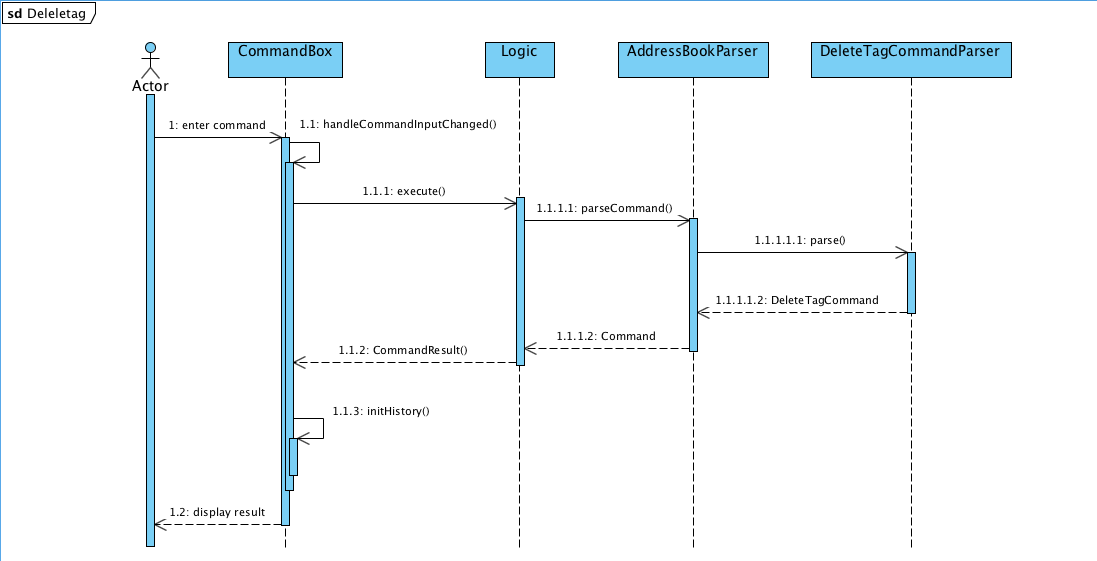
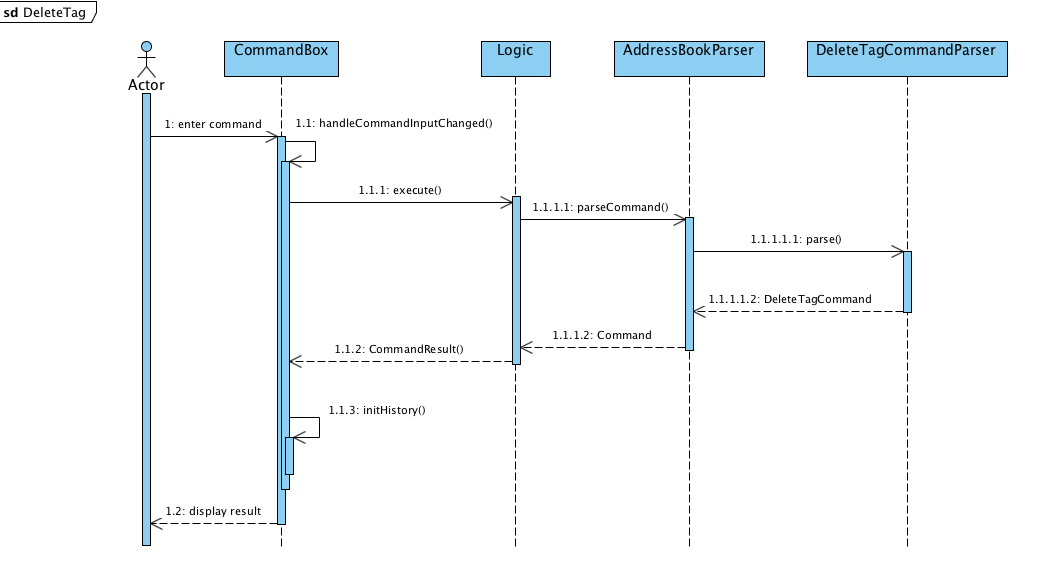
Fix broken links and update info in user and dev guide

diff --git a/docs/team/gabriellhs.html b/docs/team/gabriellhs.html
@@ -436,7 +436,7 @@ body.book #toc,body.book #preamble,body.book h1.sect0,body.book .sect1>h2{page-b
 <li><a href="#_enhancement_added_delete_tag">Enhancement Added: Delete Tag</a></li>
 <li><a href="#_enhancement_added_autocomplete">Enhancement Added: Autocomplete</a></li>
 <li><a href="#_enhancement_added_extended_autocomplete">Enhancement Added: Extended Autocomplete</a></li>
-<li><a href="#_enhancement_added_multiple_filter">Enhancement Added: Multiple Filter</a></li>
+<li><a href="#_enhancement_added_multiple_filter_for_contacts">Enhancement Added: Multiple Filter for Contacts</a></li>
 <li><a href="#_enhancement_added_list_tasks">Enhancement Added: List Tasks</a></li>
 <li><a href="#_enhancement_added_delete_tasks">Enhancement Added: Delete Tasks</a></li>
 <li><a href="#_other_contributions">Other contributions</a></li>
@@ -467,7 +467,7 @@ body.book #toc,body.book #preamble,body.book h1.sect0,body.book .sect1>h2{page-b
 <p><mark>Start of Extract [from: User Guide]</mark></p>
 </div>
 <div class="paragraph">
-<p>Need to reorganize your social groups? <code>deletetag</code> enables you to delete
+<p><a id="deletetag-command"></a> Need to reorganize your social groups? <code>deletetag</code> enables you to delete
 tags from all your contacts in <code>Contact Plus</code> !<br>
 Command Format: <code>deletetag tag_name</code><br>
 Quick demo: <a href="#how-to-use-deletetag-command">here</a></p>
@@ -554,15 +554,15 @@ he/she could remove the tag <code>CS2101 groupmate</code> from all contacts in
 <p><mark>Start of Extract [from: Developer Guide]</mark></p>
 </div>
 <div class="paragraph">
-<p>This mechanism is modelled by the <code>DeleteTaskCommand</code> class. An instance of
-<code>DeleteTaskCommand</code> is instantiated by the <code>AddressBookParser</code> class when the
+<p>This mechanism is modelled by the <code>DeleteTagCommand</code> class. An instance of
+<code>DeleteTagCommand</code> is instantiated by the <code>AddressBookParser</code> class when the
 user attempts to delete tasks. The following sequence diagram shows the process from the
-moment the user enters the <code>deletetask</code> command until the remaining tasks
+moment the user enters the <code>deletetag</code> command until the remaining tags
 are displayed in the interface of <code>Contact Plus</code>.</p>
 </div>
 <div class="imageblock">
 <div class="content">
-<img src="../images/DeleteTaskCommand-sequence-diagram.png" alt="DeleteTaskCommand sequence diagram" width="800">
+<img src="../images/DeleteTagCommand-sequence-diagram.png" alt="DeleteTagCommand sequence diagram" width="800">
 </div>
 </div>
 </div>
@@ -571,15 +571,7 @@ are displayed in the interface of <code>Contact Plus</code>.</p>
 <div class="ulist">
 <ul>
 <li>
-<p>The <code>taskDisplayed</code> variable in <code>CommandBox</code> must be set to the instance of the <code>BrowserPanel</code>
-that contains the sticky where the tasks are to be displayed.</p>
-</li>
-<li>
-<p>The <code>getFilteredTaskList()</code> method in <code>Logic</code> class must return a list of <code>ReadOnlyTasks</code> containing
-the tasks in the address book.</p>
-</li>
-<li>
-<p>The <code>deleteTask()</code> method in model must be able to accept a <code>ReadOnlyTask</code> as input and
+<p>The <code>deleteTag()</code> method in model must be able to accept a <code>Tag</code> as input and
 delete it from the address book.</p>
 </li>
 </ul>
@@ -588,21 +580,19 @@ delete it from the address book.</p>
 <div class="sect3">
 <h4 id="_design_considerations">Design Considerations</h4>
 <div class="paragraph">
-<p><strong>Aspect:</strong> Implementation of DeleteTaskCommand<br></p>
+<p><strong>Aspect:</strong> Implementation of <code>deletetag</code> command.<br></p>
 </div>
 <div class="paragraph">
-<p><strong>Alternative 1 (current choice):</strong> Delete tasks from the address book every time the user executes the command to
-delete task.<br>
-<strong>Pros:</strong> Don&#8217;t have to keep track of which tasks are no longer valid.<br>
-<strong>Cons:</strong> Causes overhead if the user repeatedly executes a command to delete tasks.</p>
+<p><strong>Alternative 1 (current choice):</strong> Delete the specified tag from all contacts in the address book.<br>
+<strong>Pros:</strong> Easy to implement.<br>
+<strong>Cons:</strong> If the user wishes to only remove that tag from one particular person. He has to re-add the tag
+to every person who had that tag previously (except the one from which he wanted to remove the tag).</p>
 </div>
 <div class="paragraph">
-<p><strong>Alternative 2:</strong> Use lazy deletion (i.e. use a boolean array to mark which tasks are no longer valid) without
- automatically displaying the remaining tasks. Only delete tasks when
-  the user chooses to list tasks.<br>
-<strong>Pros:</strong> Less overhead as deletion only has to be done when user chooses to list tasks.<br>
-<strong>Cons:</strong> Difficult to implement and causes a lot of technical issues such as updating the
-list of tasks when the user closes the address book after deletion.</p>
+<p><strong>Alternative 2:</strong> Enable the user to choose several contacts from which he/she wishes to delete the tag.<br>
+<strong>Pros:</strong> User has more control over which users to remove the tag from. Hence, this implementation removes
+ the problem from alternative 1.<br>
+<strong>Cons:</strong> Implementation is more complex as contacts have to validated before handling the tag names.</p>
 </div>
 <div class="paragraph">
 <p><mark>End of Extract</mark></p>
@@ -619,7 +609,7 @@ list of tasks when the user closes the address book after deletion.</p>
 <p><mark>Start of Extract [from: User Guide]</mark></p>
 </div>
 <div class="paragraph">
-<p>Lazy to memorize command names? Press a shorcut key to automatically complete the text that you enter into the command box.<br>
+<p><a id="autocomplete-feature"></a> Lazy to memorize command names? Press a shortcut key to automatically complete the text that you enter into the command box.<br>
 Format: [Some text]<br>
 Quick demo:  <a href="#how-to-use-autocomplete">here</a></p>
 </div>
@@ -812,7 +802,7 @@ another method should be implemented in the <code>AutoCompleteUtil</code> class.
 <div class="sect3">
 <h4 id="_design_considerations_2">Design Considerations</h4>
 <div class="paragraph">
-<p><strong>Aspect:</strong> Implementation of <code>autocomplete</code><br></p>
+<p><strong>Aspect:</strong> Implementation of <code>autocomplete</code>.<br></p>
 </div>
 <div class="paragraph">
 <p><strong>Alternative 1 (current choice):</strong> Add a list of names of available commands to <code>Command</code> class.<br>
@@ -845,7 +835,7 @@ another method should be implemented in the <code>AutoCompleteUtil</code> class.
 <p><mark>Start of Extract [from: User Guide]</mark></p>
 </div>
 <div class="paragraph">
-<p>Some commands such as <code><a href="#add-command">add</a></code> are very long and difficult to type.
+<p><a id="extended-autocomplete-feature"></a> Some commands such as <code>add</code> are very long and difficult to type.
 This feature enables you to automatically fill in the format of the command whose name matches
 the text that you entered.<br>
 Format: [COMMAND_WORD]<br>
@@ -1038,7 +1028,7 @@ for aliases.</p>
 <div class="sect3">
 <h4 id="_design_considerations_3">Design Considerations</h4>
 <div class="paragraph">
-<p><strong>Aspect:</strong> Implementation of <code>extended autocomplete</code><br></p>
+<p><strong>Aspect:</strong> Implementation of <code>extended autocomplete</code>.<br></p>
 </div>
 <div class="paragraph">
 <p><strong>Alternative 1 (current choice):</strong> Use a shortcut key to launch <code>extended autocomplete</code> when a valid <code>COMMAND NAME</code>
@@ -1064,7 +1054,7 @@ Cons: Finite number of keys on the keyboard make it impossible to do a one-to-on
 </div>
 </div>
 <div class="sect2">
-<h3 id="_enhancement_added_multiple_filter">Enhancement Added: Multiple Filter</h3>
+<h3 id="_enhancement_added_multiple_filter_for_contacts">Enhancement Added: Multiple Filter for Contacts</h3>
 <div class="sect3">
 <h4 id="_external_behavior_4">External behavior</h4>
 <hr>
@@ -1072,7 +1062,7 @@ Cons: Finite number of keys on the keyboard make it impossible to do a one-to-on
 <p><mark>Start of Extract [from: User Guide]</mark></p>
 </div>
 <div class="paragraph">
-<p>Finds persons whose names, phone no., emails and addresses,
+<p><a id="multifilter-format"></a> Finds persons whose names, phone no., emails and addresses,
 match a set of specified criteria.<br>
 Format: <code>multifilter [n/NAME] [p/PHONE NO.] [e/EMAIL] [a/ADDRESS]</code><br>
 Quick demo: <a href="#how-to-use-multifilter">here</a></p>
@@ -1245,7 +1235,7 @@ elements that match the condition specified by the given <code>Predicate</code>)
 <div class="sect3">
 <h4 id="_design_considerations_4">Design Considerations</h4>
 <div class="paragraph">
-<p><strong>Aspect:</strong> Implementation of MultiFilterCommand<br></p>
+<p><strong>Aspect:</strong> Implementation of <code>multifilter</code> command.<br></p>
 </div>
 <div class="paragraph">
 <p><strong>Alternative 1 (current choice):</strong> Allow the user to enter any number of filter fields (e.g. name, email, address, etc.) in any order.<br>
@@ -1275,7 +1265,7 @@ by address (using 2 commands).<br>
 <p><mark>Start of Extract [from: User Guide]</mark></p>
 </div>
 <div class="paragraph">
-<p>This command enables you to retrieve personal tasks that you have stored in
+<p><a id="listtask-command"></a> This command enables you to retrieve personal tasks that you have stored in
 <code>Contact Plus</code>.<br>
 Format: <code>listtask</code><br>
 Quick demo: <a href="#how-to-use-listtask">here</a></p>
@@ -1289,7 +1279,7 @@ Quick demo: <a href="#how-to-use-listtask">here</a></p>
 <ul>
 <li>
 <p>The <code>listtask</code> command shows all tasks that you have created in <code>Contact Plus</code>
-previously using the <code><a href="#addtask">task</a></code> command.</p>
+previously using the <code>task</code> command.</p>
 </li>
 <li>
 <p>Tasks are listed in the order that you have created them.</p>
@@ -1378,7 +1368,7 @@ the tasks in the address book.</p>
 <div class="sect3">
 <h4 id="_design_considerations_5">Design Considerations</h4>
 <div class="paragraph">
-<p><strong>Aspect:</strong> Implementation of ListTaskCommand<br></p>
+<p><strong>Aspect:</strong> Implementation of <code>listtask</code> command.<br></p>
 </div>
 <div class="paragraph">
 <p><strong>Alternative 1 (current choice):</strong> List all the tasks in one sticky note.<br>
@@ -1404,7 +1394,7 @@ the tasks in the address book.</p>
 <p><mark>Start of Extract [from: User Guide]</mark></p>
 </div>
 <div class="paragraph">
-<p>This command enables you to remove unnecessary/unwanted tasks
+<p><a id="deletetask-command"></a> This command enables you to remove unnecessary/unwanted tasks
 from <code>Contact Plus</code>.<br>
 Command Format: <code>deletetask INDEX_1/INDEX_2/INDEX_3 &#8230;&#8203;</code><br></p>
 </div>
@@ -1417,8 +1407,8 @@ Command Format: <code>deletetask INDEX_1/INDEX_2/INDEX_3 &#8230;&#8203;</code><b
 <ul>
 <li>
 <p><code>INDEX_1</code>, <code>INDEX_2</code>, etc. refer to the task numbers that
-are shown when you use the <a href="#listtask"><code>listtask</code></a> command to show your tasks
-(See <a href="#how-to-use-deletetasks">how to use</a> for an example).</p>
+are shown when you use the <a href="#listtask-command"><code>listtask</code></a> command to show your tasks
+(See <a href="#how-to-use-deletetask">how to use</a> for an example).</p>
 </li>
 <li>
 <p><code>INDEX_1</code>, <code>INDEX_2</code>, etc. must be positive integers
@@ -1463,11 +1453,11 @@ Otherwise, an error message is shown.</p></td>
 </table>
 </div>
 <div class="sect3">
-<h4 id="_how_to_use">How to use</h4>
+<h4 id="how-to-use-deletetask">How to use</h4>
 <div class="olist arabic">
 <ol class="arabic">
 <li>
-<p>Use the <code><a href="#listtask">listtask</a></code> command to display all your tasks.
+<p>Use the <code><a href="#listtask-command">listtask</a></code> command to display all your tasks.
 Note the number of the tasks that you wish to delete.</p>
 <div class="paragraph">
 <p><span class="image"><img src="../images/deletetask-listtask.png" alt="deletetask listtask" width="800"></span></p>
@@ -1549,7 +1539,7 @@ delete it from the address book.</p>
 <div class="sect3">
 <h4 id="_design_considerations_6">Design Considerations</h4>
 <div class="paragraph">
-<p><strong>Aspect:</strong> Implementation of DeleteTaskCommand<br></p>
+<p><strong>Aspect:</strong> Implementation of DeleteTaskCommand.<br></p>
 </div>
 <div class="paragraph">
 <p><strong>Alternative 1 (current choice):</strong> Delete tasks from the address book every time the user executes the command to
@@ -1597,7 +1587,7 @@ list of tasks when the user closes the address book after deletion.</p>
 </div>
 <div id="footer">
 <div id="footer-text">
-Last updated 2017-11-08 10:23:40 +08
+Last updated 2017-11-09 20:55:32 +08
 </div>
 </div>
 </body>
